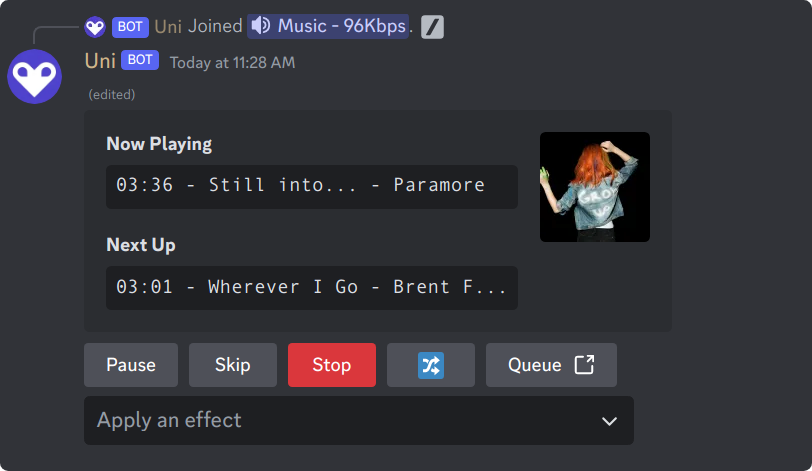
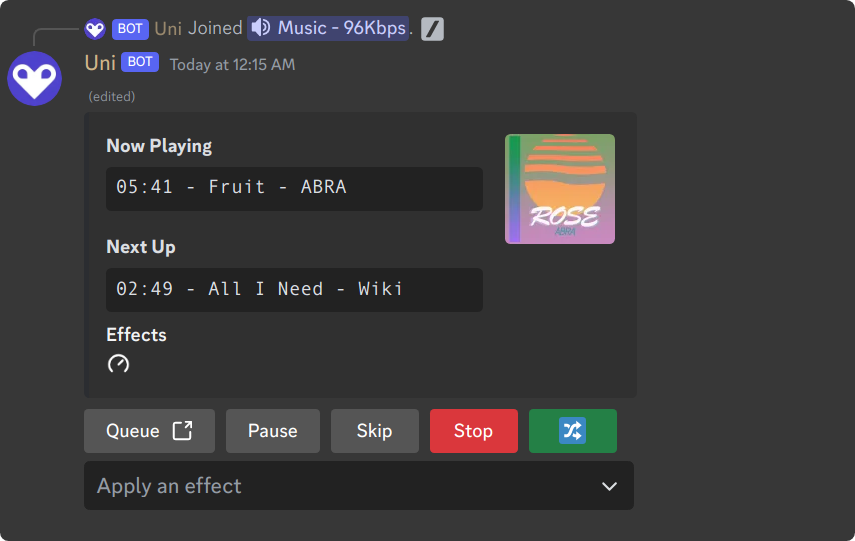
add speed-up effect to music.py

diff --git a/extensions/music.py b/extensions/music.py
@@ -42,6 +42,7 @@ class EffectsSelect(discord.ui.Select):
             discord.SelectOption(label="Bass Boost", value="bass-boost"),
             discord.SelectOption(label="8D", value="8d"),
             discord.SelectOption(label="Slowed & reverb ", value="reverb"),
+            discord.SelectOption(label="Speed up", value="speed-up"),
             discord.SelectOption(label="Reset", value="reset"),
         ]
         super().__init__(
@@ -51,9 +52,10 @@ class EffectsSelect(discord.ui.Select):
             options=options,
         )
         self.effect_emojis = {
-            "bass-boost": "🔊",
-            "8d": "🌀",
-            "reverb": "🐌",
+            "bass-boost": "<:volume:1195610066901028975>",
+            "8d": "<:spiral:1195609586074398860>",
+            "reverb": "<:hourglass:1195609480801558568>",
+            "speed-up": "<:speed:1195609908171780176>",
             "reset": "",
         }
         self.active_effects = []
@@ -85,7 +87,7 @@ class EffectsSelect(discord.ui.Select):
                 embed.set_field_at(
                     -1,
                     name="Effects",
-                    value=" ➔ ".join(self.active_effects),
+                    value=" | ".join(self.active_effects),
                     inline=False,
                 )
             else:
@@ -99,6 +101,9 @@ class EffectsSelect(discord.ui.Select):
             await self.apply_8d(filters, player)
         elif selected_effect == "reverb":
             await self.apply_reverb(filters, player)
+        elif selected_effect == "speed-up":
+            filters.timescale.set(rate=1.2)
+            await player.set_filters(filters, seek=True)
         elif selected_effect == "reset":
             filters.reset()
             await player.set_filters(filters, seek=True)
@@ -373,23 +378,26 @@ class Music(commands.Cog):
         filters: wavelink.Filters = player.filters
         active_effects = []
         if filters.equalizer.payload[0]["gain"] == 1:
-            active_effects.append("🔊")
+            active_effects.append("<:volume:1195610066901028975>")
         if (
             filters.rotation.payload.get("rotationHz") == 0.125
             and filters.tremolo.payload.get("depth") == 0.3
             and filters.tremolo.payload.get("frequency") == 14
         ):
-            active_effects.append("🌀")
+            active_effects.append("<:spiral:1195609586074398860>")
         if (
             filters.timescale.payload.get("pitch") == 0.8
             and filters.timescale.payload.get("rate") == 0.9
             and filters.reverb.payload.get("wet") == 0.35
         ):
-            active_effects.append("🐌")
+            active_effects.append("<:hourglass:1195609480801558568>")
+
+        if filters.timescale.payload.get("rate") == 1.2:
+            active_effects.append("<:speed:1195609908171780176>")
 
         if active_effects:
             embed.add_field(
-                name="Effects", value=" ➔ ".join(active_effects), inline=False
+                name="Effects", value=" | ".join(active_effects), inline=False
             )
 
         if player.current.artwork:
